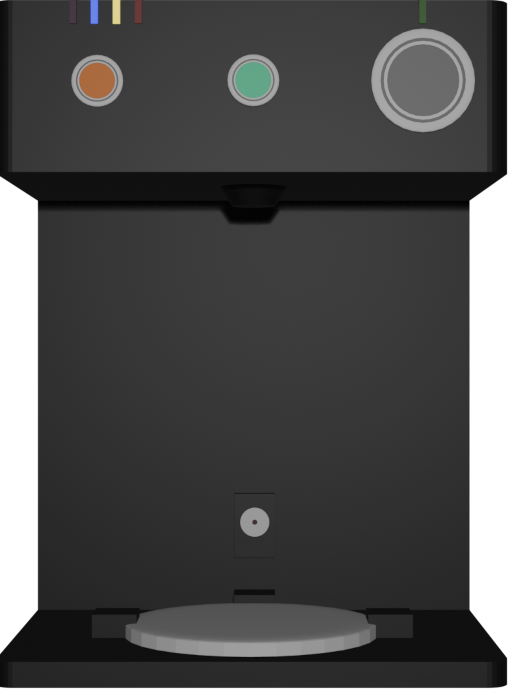
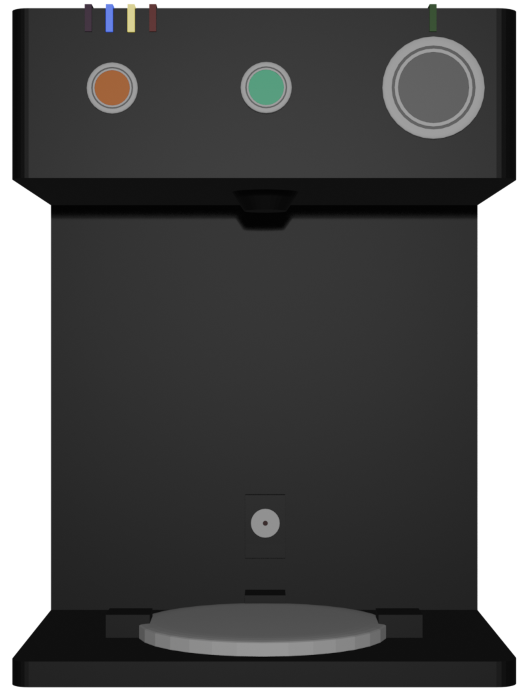
Matt Commit #11 - Added LED lights to Vis. Powering off not recommended yet, will see if I can fix it soon.

diff --git a/src/CoffeeMakerPOVs.java b/src/CoffeeMakerPOVs.java
@@ -78,7 +78,7 @@ public class CoffeeMakerPOVs extends Application {
     private static BufferedReader reader = null; // Use this to read from the coffee maker.
 
     // Coffee Maker Image States
-    private MachineState currentMachineState = MachineState.ALL_LEDS_OFF;
+    private MachineState currentMachineState = MachineState.STANDBY_LEDS_WITHOUT_WATER;
     private CarafeInPlace carafePresence = CarafeInPlace.PRESENT;
     private CoffeeGrindState currentGrindState = CoffeeGrindState.MISSING;
     private CarafeState currentCarafe = CarafeState.C0;
@@ -312,6 +312,7 @@ public class CoffeeMakerPOVs extends Application {
             public void handle(MouseEvent event) {
                 writer.println("RSF");
                 currentWater = WaterState.WEMPTY;
+                currentMachineState = MachineState.STANDBY_LEDS_WITHOUT_WATER;
                 RightImagePOV.setImage(WaterState.WEMPTY.getRight());
                 BackImagePOV.setImage(WaterState.WEMPTY.getBack());
                 if (currentLidPos.equals(LidPosition.CLOSED)) {
@@ -330,6 +331,7 @@ public class CoffeeMakerPOVs extends Application {
             public void handle(MouseEvent event) {
                 writer.println("RST");
                 currentWater = WaterState.W25;
+                currentMachineState = MachineState.STANDBY_LEDS_WITH_WATER;
                 RightImagePOV.setImage(WaterState.W25.getRight());
                 BackImagePOV.setImage(WaterState.W25.getBack());
                 if (currentLidPos.equals(LidPosition.CLOSED)) {
@@ -348,6 +350,7 @@ public class CoffeeMakerPOVs extends Application {
             public void handle(MouseEvent event) {
                 writer.println("RST");
                 currentWater = WaterState.W50;
+                currentMachineState = MachineState.STANDBY_LEDS_WITH_WATER;
                 RightImagePOV.setImage(WaterState.W50.getRight());
                 BackImagePOV.setImage(WaterState.W50.getBack());
                 if (currentLidPos.equals(LidPosition.CLOSED)) {
@@ -366,6 +369,7 @@ public class CoffeeMakerPOVs extends Application {
             public void handle(MouseEvent event) {
                 writer.println("RST");
                 currentWater = WaterState.W75;
+                currentMachineState = MachineState.STANDBY_LEDS_WITH_WATER;
                 RightImagePOV.setImage(WaterState.W75.getRight());
                 BackImagePOV.setImage(WaterState.W75.getBack());
                 if (currentLidPos.equals(LidPosition.CLOSED)) {
@@ -384,6 +388,7 @@ public class CoffeeMakerPOVs extends Application {
             public void handle(MouseEvent event) {
                 writer.println("RST");
                 currentWater = WaterState.W100;
+                currentMachineState = MachineState.STANDBY_LEDS_WITH_WATER;
                 RightImagePOV.setImage(WaterState.W100.getRight());
                 BackImagePOV.setImage(WaterState.W100.getBack());
                 if (currentLidPos.equals(LidPosition.CLOSED)) {
@@ -445,7 +450,7 @@ public class CoffeeMakerPOVs extends Application {
                     this.frontCarafe.getComponentView().setTranslateX(-300);
                 }
                 else {
-                    this.frontCarafe.getComponentView().setTranslateX(-5);
+                    this.frontCarafe.getComponentView().setTranslateX(-15);
                 }
                 this.VoltageMenu.setVisible(false);
                 this.WaterMenu.setVisible(false);
@@ -500,7 +505,7 @@ public class CoffeeMakerPOVs extends Application {
 
     private Scene makeFrontPOV() {
 
-        Image FrontOFF = new Image("file:resources/CoffeeMakerImages/POV/Front/Front.png");
+        Image FrontOFF = new Image("file:resources/CoffeeMakerImages/POV/Front/FrontOff.png");
         this.FrontImagePOV.setImage(FrontOFF);
         StackPane frontStack = new StackPane();
         frontStack.setPrefWidth(1000);
@@ -513,17 +518,17 @@ public class CoffeeMakerPOVs extends Application {
 
 
         frontStack.getChildren().addAll(this.FrontImagePOV, PowButton.getComponentView(), HeatButton.getComponentView(), BrewButton.getComponentView(), frontCarafe.getComponentView());
-        PowButton.getComponentView().setTranslateX(180);
+        PowButton.getComponentView().setTranslateX(171);
         PowButton.getComponentView().setTranslateY(-257);
         PowButton.getComponentView().setScaleX(1.65);
         PowButton.getComponentView().setScaleY(1.65);
 
-        BrewButton.getComponentView().setTranslateX(12);
+        BrewButton.getComponentView().setTranslateX(3);
         BrewButton.getComponentView().setTranslateY(-257);
         BrewButton.getComponentView().setScaleX(1.35);
         BrewButton.getComponentView().setScaleY(1.35);
 
-        HeatButton.getComponentView().setTranslateX(-142);
+        HeatButton.getComponentView().setTranslateX(-151);
         HeatButton.getComponentView().setTranslateY(-257);
         HeatButton.getComponentView().setScaleX(1.35);
         HeatButton.getComponentView().setScaleY(1.35);
@@ -535,18 +540,16 @@ public class CoffeeMakerPOVs extends Application {
                 if (carafePresence.equals(CarafeInPlace.PRESENT)) {
                     carafePresence = CarafeInPlace.MISSING;
                     frontCarafe.getComponentView().setTranslateX(-300);
-                    System.out.println("Carafe is now MISSING");
                 }
                 else {
                     carafePresence = CarafeInPlace.PRESENT;
-                    frontCarafe.getComponentView().setTranslateX(-5);
-                    System.out.println("Carafe is now PRESENT");
+                    frontCarafe.getComponentView().setTranslateX(-15);
                 }
             }
         });
         this.frontCarafe.getComponentView().setScaleX(0.5);
         this.frontCarafe.getComponentView().setScaleY(0.5);
-        this.frontCarafe.getComponentView().setTranslateX(-5);
+        this.frontCarafe.getComponentView().setTranslateX(-14);
         this.frontCarafe.getComponentView().setTranslateY(75);
 
         this.FrontPane.setLeft(this.LeftMenu);
@@ -729,11 +732,67 @@ public class CoffeeMakerPOVs extends Application {
         AnimationTimer handleReader = new AnimationTimer() {
             private long repeater = 0;
             final ExecutorService readBuffer = Executors.newFixedThreadPool(1);
+            final AtomicReference<Boolean> isPowered = new AtomicReference<>(true);
+            final AtomicReference<Boolean> blink = new AtomicReference<>(false);
             @Override
             public void handle(long now) {
-                if (now - repeater >= 1_000_000_000) {
+                if (now - repeater >= 500_000_000) {
                     repeater = now;
                     AtomicReference<String> next = new AtomicReference<>("");
+                    System.out.println(currentMachineState);
+                    switch (currentMachineState) {
+                        case STANDBY_LEDS_WITHOUT_WATER -> {
+                            if (isPowered.get()) {
+                                if (blink.get()) {
+                                    FrontImagePOV.setImage(new Image("file:resources/CoffeeMakerImages/POV/Front/FrontBYG.png"));
+                                    blink.set(false);
+                                } else {
+                                    FrontImagePOV.setImage(new Image("file:resources/CoffeeMakerImages/POV/Front/FrontYG.png"));
+                                    blink.set(true);
+                                }
+                            }
+                        }
+                        case STANDBY_LEDS_WITH_WATER -> {
+                            if (isPowered.get()) {
+                                FrontImagePOV.setImage(new Image("file:resources/CoffeeMakerImages/POV/Front/FrontYG.png"));
+                            }
+                        }
+                        case BREW_BUTTON_PRESSED -> {
+                            if (isPowered.get()) {
+                                if (blink.get()) {
+                                    FrontImagePOV.setImage(new Image("file:resources/CoffeeMakerImages/POV/Front/FrontPYG.png"));
+                                    blink.set(false);
+                                } else {
+                                    FrontImagePOV.setImage(new Image("file:resources/CoffeeMakerImages/POV/Front/FrontPY.png"));
+                                    blink.set(true);
+                                }
+                            }
+                        }
+                        case HEATING_BUTTON_PRESSED -> {
+                            if (isPowered.get()) {
+                                FrontImagePOV.setImage(new Image("file:resources/CoffeeMakerImages/POV/Front/FrontPYG.png"));
+                            }
+                        }
+                        case ALL_LEDS_OFF -> {
+                            FrontImagePOV.setImage(new Image("file:resources/CoffeeMakerImages/POV/Front/FrontOff.png"));
+                        }
+                        default -> {
+                            if(isPowered.get()) {
+                                if(blink.get()) {
+                                    if (currentWater.equals(WaterState.WLOW) || currentWater.equals(WaterState.WEMPTY)) {
+                                        FrontImagePOV.setImage(new Image("file:resources/CoffeeMakerImages/POV/Front/FrontBYRG.png"));
+                                        blink.set(false);
+                                    } else {
+                                        FrontImagePOV.setImage(new Image("file:resources/CoffeeMakerImages/POV/Front/FrontYRG.png"));
+                                        blink.set(false);
+                                    }
+                                } else {
+                                    FrontImagePOV.setImage(new Image("file:resources/CoffeeMakerImages/POV/Front/FrontYG.png"));
+                                    blink.set(true);
+                                }
+                            }
+                        }
+                    }
                     readBuffer.submit(() -> {
                         try {
                             next.set(reader.readLine());
@@ -746,7 +805,7 @@ public class CoffeeMakerPOVs extends Application {
                                     System.out.println("Start");
                                     break;
                                 case "FinB" :
-                                    currentMachineState = MachineState.STANDBY;
+                                    currentMachineState = MachineState.STANDBY_LEDS_WITHOUT_WATER;
                                     writer.println(MachineState.STANDBY.getCommand());
                                     frontCarafe.getComponentView().setImage(CarafeState.C100.getFrontCarafe());
                                     rightCarafe.getComponentView().setImage(CarafeState.C100.getRightCarafe());
@@ -785,6 +844,7 @@ public class CoffeeMakerPOVs extends Application {
                                     RightImagePOV.setImage(new Image("file:resources/CoffeeMakerImages/POV/Right/RightWaterLow.png"));
                                     BackImagePOV.setImage(new Image("file:resources/CoffeeMakerImages/POV/Back/BackWaterLow.png"));
                                     TopImagePOV.setImage(new Image("file:resources/CoffeeMakerImages/POV/Top/TopWaterLowLidClosed.png"));
+                                    currentMachineState = MachineState.STANDBY_LEDS_WITHOUT_WATER;
                                     if (currentGrindState.equals(CoffeeGrindState.PRESENT)) {
                                         currentGrindState = CoffeeGrindState.MISSING;
                                     }
@@ -794,10 +854,10 @@ public class CoffeeMakerPOVs extends Application {
 
                                 // Commands for LEDs
                                 case "BLED": // Brewing LEDs
-                                    // TODO change LED image.
+                                    currentMachineState = MachineState.BREW_BUTTON_PRESSED;
                                     break;
                                 case "HLED": // Heating LEDs
-                                    // TODO change LED image.
+                                    currentMachineState = MachineState.HEATING_BUTTON_PRESSED;
                                     break;
                                 case "ELED": // Error LEDs
                                     // TODO change LED image.
@@ -806,10 +866,10 @@ public class CoffeeMakerPOVs extends Application {
                                     // TODO change LED image.
                                     break;
                                 case "SLTW": // Standby with water
-                                    // TODO change LED image.
+                                    currentMachineState = MachineState.STANDBY_LEDS_WITH_WATER;
                                     break;
                                 case "SLFW": // Standby without water
-                                    // TODO change LED image.
+                                    currentMachineState = MachineState.STANDBY_LEDS_WITHOUT_WATER;
                                     break;
                                 // Commands for devices.
                                 case "HHU": // Heater heat up
@@ -827,6 +887,7 @@ public class CoffeeMakerPOVs extends Application {
                             // Do nothing, continue code
                         }
                     });
+
                 }
 
             }

diff --git a/src/WaterState.java b/src/WaterState.java
@@ -5,6 +5,10 @@ public enum WaterState {
             new Image("file:resources/CoffeeMakerImages/POV/Back/BackWaterEmpty.png"),
             new Image("file:resources/CoffeeMakerImages/POV/Top/TopWaterEmptyLidOpened.png"),
             new Image("file:resources/CoffeeMakerImages/POV/Top/TopWaterEmptyLidClosed.png")),
+    WLOW( new Image("file:resources/CoffeeMakerImages/POV/Right/RightWaterLow.png"),
+            new Image("file:resources/CoffeeMakerImages/POV/Back/BackWaterLow.png"),
+            new Image("file:resources/CoffeeMakerImages/POV/Top/TopWaterLowLidOpened.png"),
+            new Image("file:resources/CoffeeMakerImages/POV/Top/TopWaterLowLidClosed.png")),
     W25(    new Image("file:resources/CoffeeMakerImages/POV/Right/RightWater25.png"),
             new Image("file:resources/CoffeeMakerImages/POV/Back/BackWater25.png"),
             new Image("file:resources/CoffeeMakerImages/POV/Top/TopWater25LidOpened.png"),

diff --git a/src/MachineState.java b/src/MachineState.java
@@ -10,14 +10,14 @@ public enum MachineState {
     TEMPERATURE_SENSOR_SET("TSS"),
     VOLTAGE_SENSOR_SET("VSS"),
     HEAT_UP("HHU"),
-    COOL_DOWN("HCD"),
+    COOL_DOWN("HCD"), // Pink Yellow
     STANDBY("STBY"),
-    BREWING_LEDS("BLED"), //Pink, yellow, green
+    BREWING_LEDS("BLED"), //Pink, yellow, green (Blinking)
     HEATING_LEDS("HLED"),//Pink, yellow,
     ERROR_LEDS("ELED"),
     ALL_LEDS_OFF("ALO"),
-    STANDBY_LEDS_WITH_WATER("SLTW"),
-    STANDBY_LEDS_WITHOUT_WATER("SLFW");
+    STANDBY_LEDS_WITH_WATER("SLTW"), // Blue yellow Green
+    STANDBY_LEDS_WITHOUT_WATER("SLFW"); // Yellow Green
 
 
     private final String command;

diff --git a/src/Main.java b/src/Main.java
@@ -63,7 +63,7 @@ public class Main {
 
         if (carafeSensor.carafeInPlace() & reservoirSensor.hasWater() & lidSensor.isClosed()) {
             //writer.println(MachineState.HEAT_UP.getCommand());
-            //writer.println(MachineState.BREWING_LEDS.getCommand());
+            writer.println(MachineState.BREWING_LEDS.getCommand());
             //timer.set(1000); // Five seconds
             //timer.reset();
             heating();
